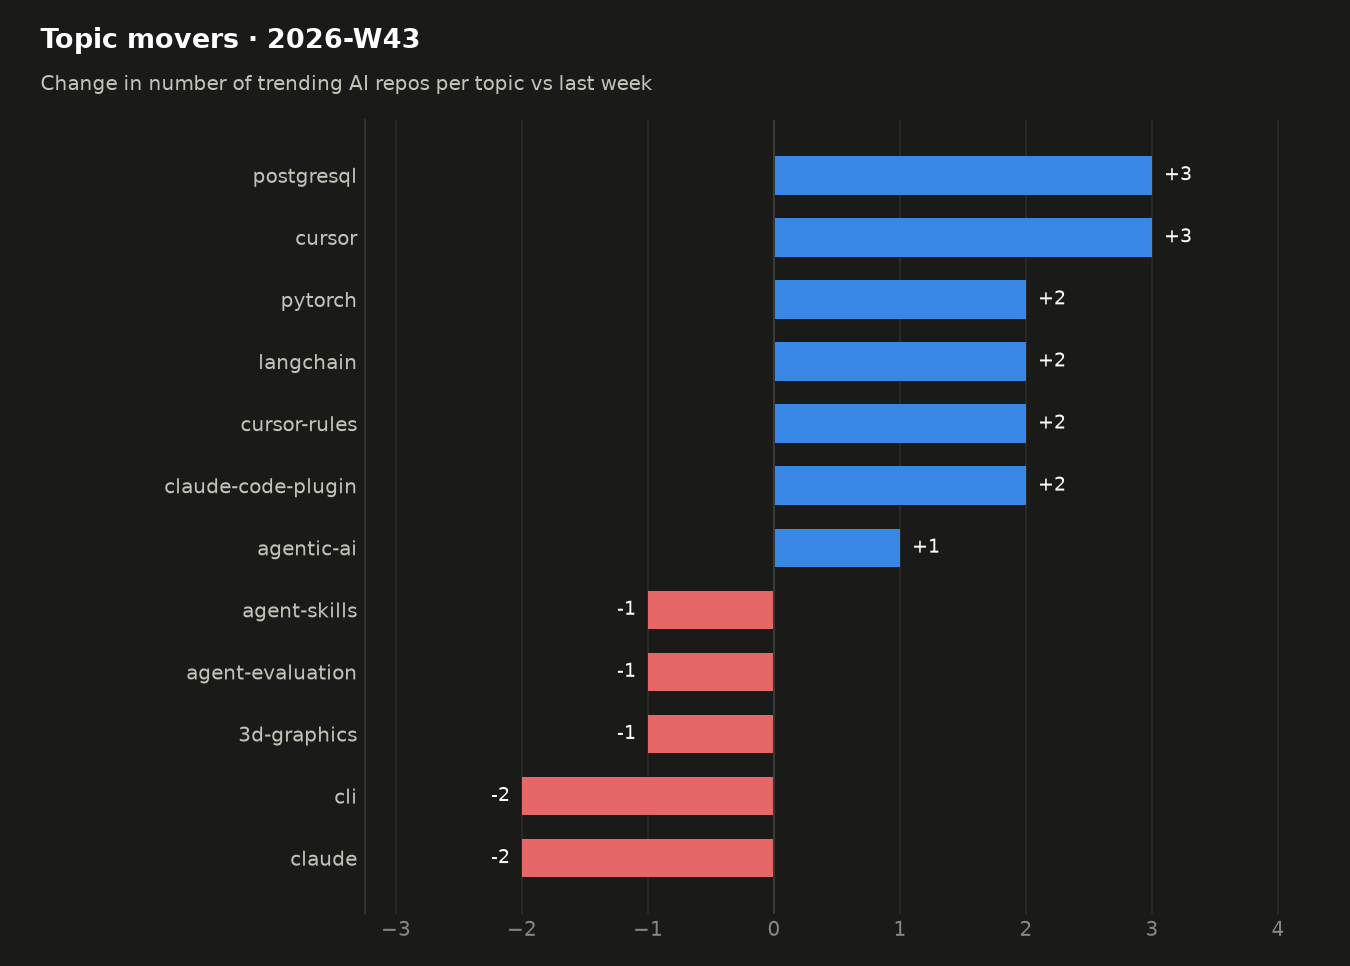
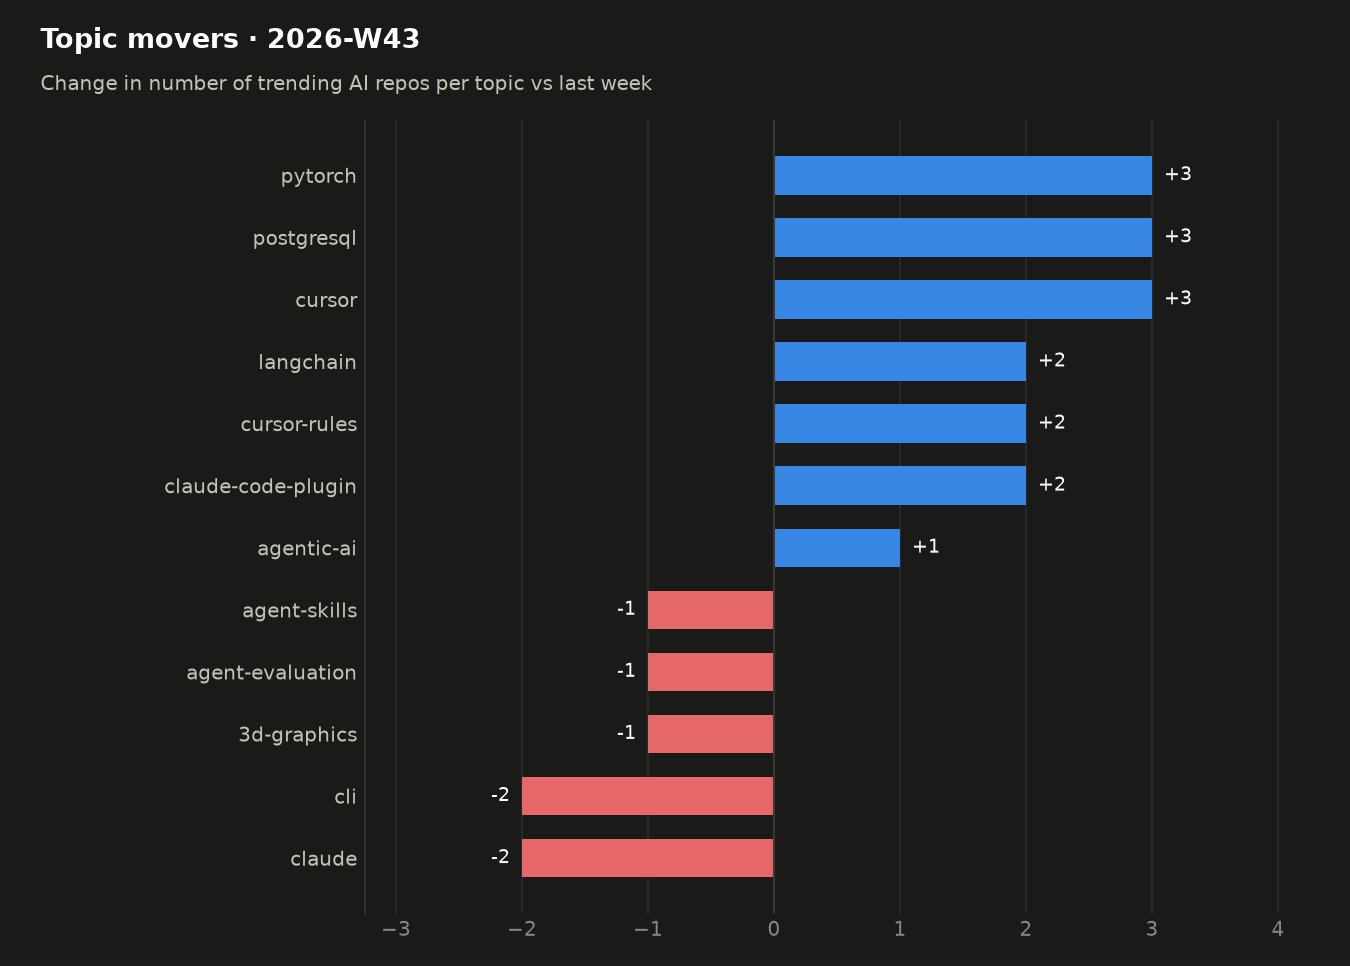
trending: snapshot 2026-10-24

diff --git a/README.md b/README.md
@@ -7,28 +7,27 @@ Every morning a GitHub Actions workflow reads the GitHub trending page, looks up
 ## Live view
 
 <!-- TRACKER_START -->
-### 🔥 AI repos trending today · 2026-10-23
+### 🔥 AI repos trending today · 2026-10-24
 
-6 of 9 trending repositories are AI-related.
+5 of 8 trending repositories are AI-related.
 
 | # | Repo | Language | ⭐ today | ⭐ total | Topics |
 |--:|---|---|--:|--:|---|
-| 2 | [anthropics/knowledge-work-plugins](https://github.com/anthropics/knowledge-work-plugins)<br><sub>Star anthropics / knowledge-work-plugins Open source repository of plugins primarily inten…</sub> | Python | 303 | 31,791 | – |
-| 3 | [DietrichGebert/ponytail](https://github.com/DietrichGebert/ponytail)<br><sub>Sponsor Star DietrichGebert / ponytail Makes your AI agent think like the laziest senior d…</sub> | JavaScript | 1,948 | 173,995 | `agent-skills` `ai-agents` `claude` `claude-code` |
-| 4 | [cloudflare/security-audit-skill](https://github.com/cloudflare/security-audit-skill)<br><sub>Star cloudflare / security-audit-skill A coding-agent skill for multi-phase security audit…</sub> | JavaScript | 2,979 | 40,204 | – |
-| 5 | [Graphify-Labs/graphify](https://github.com/Graphify-Labs/graphify)<br><sub>Star Graphify-Labs / graphify Turn any codebase, with its docs, SQL schemas, configs, and …</sub> | Python | 1,408 | 133,336 | `ai-agents` `antigravity` `ast` `claude-code` |
-| 6 | [supabase/supabase](https://github.com/supabase/supabase)<br><sub>Sponsor Star supabase / supabase The Postgres development platform. Supabase gives you a d…</sub> | TypeScript | 693 | 113,607 | `ai` `alternative` `auth` `database` |
-| 8 | [luongnv89/claude-howto](https://github.com/luongnv89/claude-howto)<br><sub>Sponsor Star luongnv89 / claude-howto A visual, example-driven guide to Claude Code — from…</sub> | Python | 177 | 43,546 | `claude-code` `guide` `tutorial` |
+| 1 | [cloudflare/security-audit-skill](https://github.com/cloudflare/security-audit-skill)<br><sub>Star cloudflare / security-audit-skill A coding-agent skill for multi-phase security audit…</sub> | JavaScript | 2,716 | 42,629 | – |
+| 3 | [anthropics/knowledge-work-plugins](https://github.com/anthropics/knowledge-work-plugins)<br><sub>Star anthropics / knowledge-work-plugins Open source repository of plugins primarily inten…</sub> | Python | 635 | 32,378 | – |
+| 4 | [NVIDIA/OpenShell](https://github.com/NVIDIA/OpenShell)<br><sub>Star NVIDIA / OpenShell OpenShell is the safe, private runtime for autonomous AI agents.</sub> | Rust | 1,119 | 18,971 | – |
+| 6 | [SnailSploit/Claude-Red](https://github.com/SnailSploit/Claude-Red)<br><sub>Star SnailSploit / Claude-Red claude-red is a curated library of offensive security skills…</sub> | Python | 226 | 8,661 | `claude-ai` `claude-pt` `claude-skills` `redteam` |
+| 7 | [OpenBMB/VoxCPM](https://github.com/OpenBMB/VoxCPM)<br><sub>Star OpenBMB / VoxCPM VoxCPM2: Tokenizer-Free TTS for Multilingual Speech Generation, Crea…</sub> | Python | 150 | 40,387 | `audio` `deeplearning` `minicpm` `multilingual` |
 
 ### 📊 This week so far · 2026-W43
 
 #### Summary
 
-- **23** distinct AI repos trended over 5 day(s) (last week: 27)
-- AI share of all trending slots: **82%** (+4 pts vs last week)
-- Dominant language: **Python** (48% of AI repos)
-- Rising topics: `cursor` (+3), `postgresql` (+3), `claude-code-plugin` (+2), `cursor-rules` (+2), `langchain` (+2)
-- New this week: `cursor`, `postgresql`, `pytorch`, `langchain`, `claude-code-plugin`, `cursor-rules`
+- **26** distinct AI repos trended over 6 day(s) (last week: 27)
+- AI share of all trending slots: **79%** (+1 pts vs last week)
+- Dominant language: **Python** (50% of AI repos)
+- Rising topics: `cursor` (+3), `postgresql` (+3), `pytorch` (+3), `claude-code-plugin` (+2), `cursor-rules` (+2)
+- New this week: `pytorch`, `cursor`, `postgresql`, `langchain`, `cursor-rules`, `claude-code-plugin`
 
 #### Languages
 
@@ -36,10 +35,10 @@ Every morning a GitHub Actions workflow reads the GitHub trending page, looks up
 
 | Language | Repos | Share | Last week |
 |---|--:|--:|--:|
-| Python | 11 | 48% | 10 |
-| TypeScript | 6 | 26% | 7 |
-| JavaScript | 2 | 9% | 1 |
-| Rust | 1 | 4% | 3 |
+| Python | 13 | 50% | 10 |
+| TypeScript | 6 | 23% | 7 |
+| Rust | 2 | 8% | 3 |
+| JavaScript | 2 | 8% | 1 |
 | Unspecified | 1 | 4% | 0 |
 | Shell | 1 | 4% | 1 |
 | Go | 1 | 4% | 2 |
@@ -52,25 +51,25 @@ Every morning a GitHub Actions workflow reads the GitHub trending page, looks up
 |---|--:|
 | `claude-code` | 8 |
 | `ai-agents` | 6 |
+| `skills` | 4 |
 | `mcp` | 4 |
 | `codex` | 4 |
-| `skills` | 3 |
 | `claude` | 3 |
+| `pytorch` | 3 |
 | `cursor` | 3 |
 | `postgresql` | 3 |
-| `job-search` | 2 |
 | `career` | 2 |
+| `job-search` | 2 |
 | `multi-agent` | 2 |
-| `agentic-ai` | 2 |
 
 #### Most persistent AI repos
 
 | Repo | Language | Days trending | Stars gained | Total stars |
 |---|---|--:|--:|--:|
+| [cloudflare/security-audit-skill](https://github.com/cloudflare/security-audit-skill) | JavaScript | 4 | 9,419 | 42,629 |
 | [stablyai/orca](https://github.com/stablyai/orca) | TypeScript | 4 | 5,842 | 101,811 |
 | [Comfy-Org/ComfyUI](https://github.com/Comfy-Org/ComfyUI) | Python | 4 | 3,310 | 141,738 |
 | [MadsLorentzen/ai-job-search](https://github.com/MadsLorentzen/ai-job-search) | Python | 3 | 9,949 | 61,499 |
-| [cloudflare/security-audit-skill](https://github.com/cloudflare/security-audit-skill) | JavaScript | 3 | 6,703 | 40,204 |
 | [DietrichGebert/ponytail](https://github.com/DietrichGebert/ponytail) | JavaScript | 3 | 5,235 | 173,995 |
 | [anomalyco/opencode](https://github.com/anomalyco/opencode) | TypeScript | 3 | 3,965 | 219,234 |
 | [Graphify-Labs/graphify](https://github.com/Graphify-Labs/graphify) | Python | 3 | 3,643 | 133,336 |
@@ -80,7 +79,7 @@ Every morning a GitHub Actions workflow reads the GitHub trending page, looks up
 
 ➡ Last full weekly analysis: [2026-W42](reports/weekly/2026-W42.md) · [all reports](reports/weekly)
 
-_Tracking since 2026-10-01 · 23 day(s) of data · [raw data](data/trending.csv)_
+_Tracking since 2026-10-01 · 24 day(s) of data · [raw data](data/trending.csv)_
 <!-- TRACKER_END -->
 
 ## How it works
